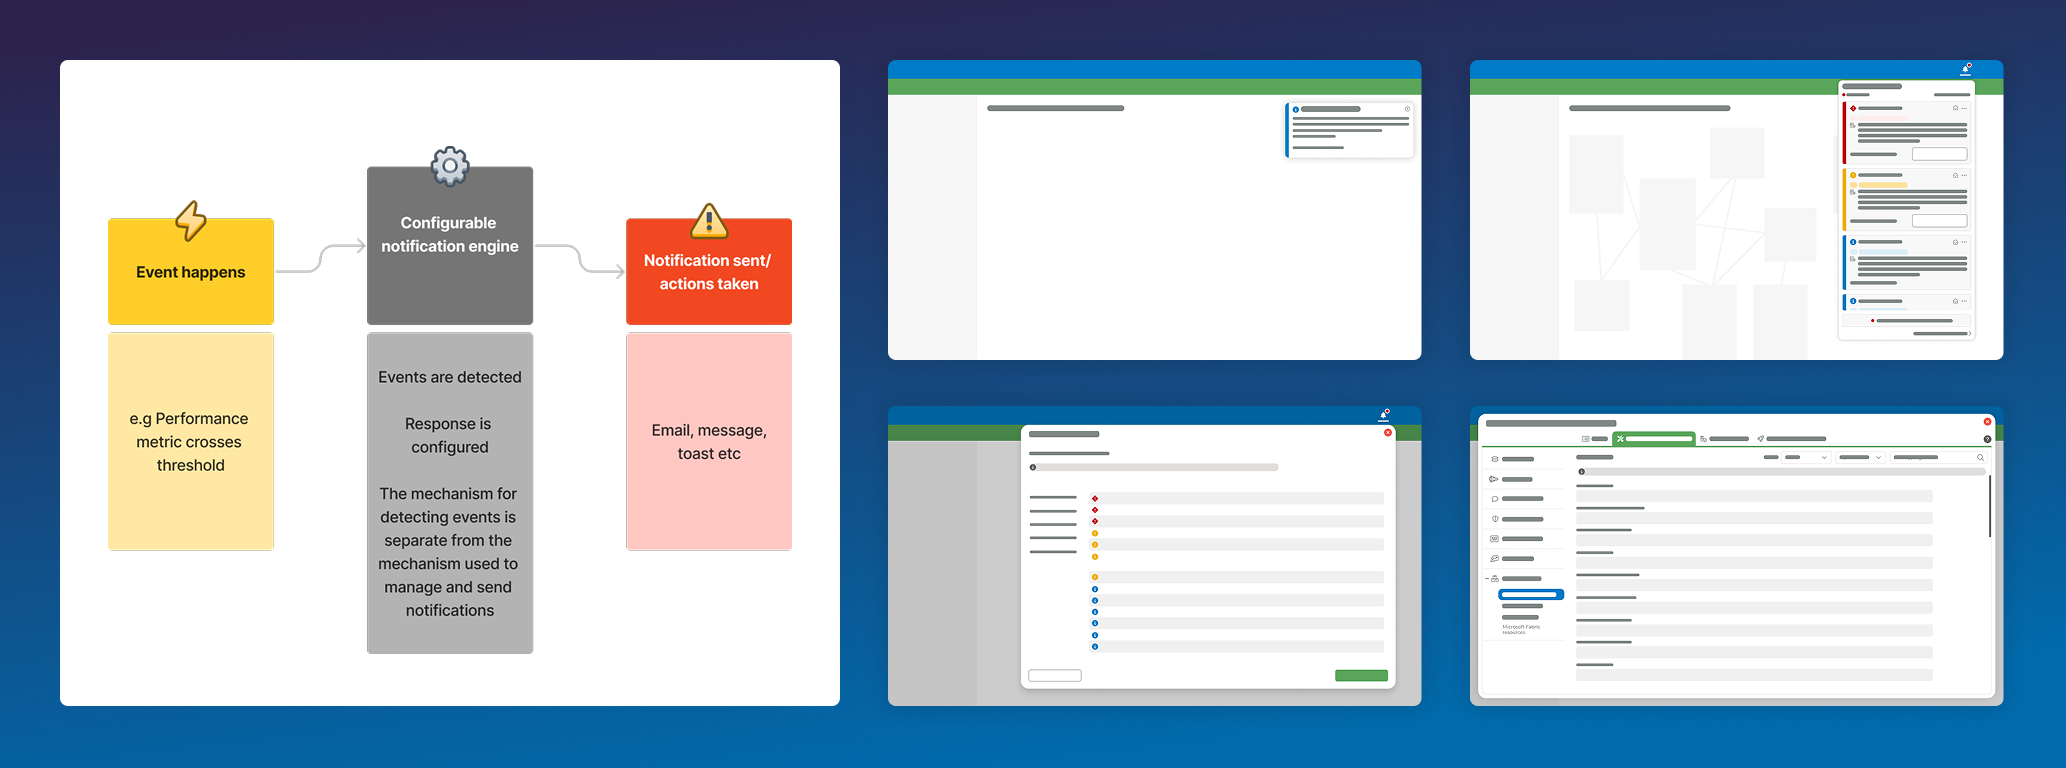
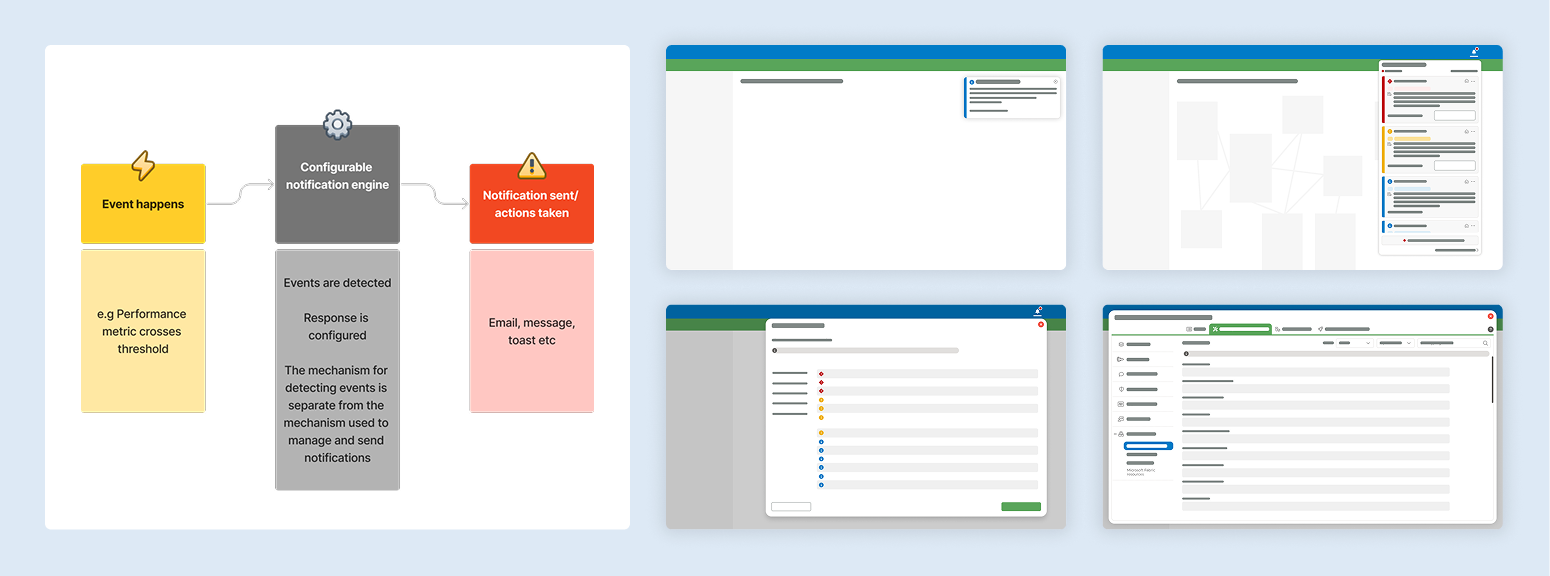
Alerts images updated

diff --git a/case_study_3_alerts.html b/case_study_3_alerts.html
@@ -161,8 +161,8 @@
                             </div>
                             <div class="cg-broad slide-up delay-300">
 
-                                <img class="cs-img round" src="img/alert_objective.svg" alt="Experience flow">
-
+                                <img class="cs-img round" src="img/alert_intro_1.png" alt="Notification centre mockup">
+                                <img class="cs-img round" src="img/alert_intro_2.png" alt="Notification centre mockup">
                                 <p class="cg-p-italics">We created this experience flow to map user needs alongside
                                     system processes and clarify where key interactions should occur.
                                 </p>
@@ -365,7 +365,7 @@
                                 </div>
 
                                 <!-- Step 2 -->
-                                <div class="rp-step ">
+                                <div class="rp-step-wide ">
                                     <div class="rp-icon">2</div>
                                     <div class="rp-content">
                                         <h5 class="cg-subheader-list">Planning for system-wide alerting</h5>
@@ -387,7 +387,7 @@
                                             </li>
                                         </ul>
                                     </div>
-                                    <div class="rp-image">
+                                    <div class="rp-image-wide">
                                         <img src="./img/alert_approach_2.svg" alt="System event and alerting mapping">
                                         <p class="cg-p-italics">I mapped and catalogued system events and looked at
                                             alert prioritisation scale would work.
@@ -395,7 +395,7 @@
                                     </div>
                                 </div>
                                 <!-- Step 4 -->
-                                <div class="rp-step ">
+                                <div class="rp-step-wide ">
                                     <div class="rp-icon">3</div>
                                     <div class="rp-content">
                                         <h5 class="cg-subheader-list">With the framework in place we focused on
@@ -419,10 +419,11 @@
 
                                         </ul>
                                     </div>
-                                    <div class="rp-image">
-                                        <img src="./img/alert_approach_e.png" alt="Wireframe showing an alert panel">
-                                        <p class="cg-p-italics">An early wireframe exploring the Alerts and
-                                            Notifications panel - one of the key user touchpoints. </p>
+                                    <div class="rp-image-wide">
+                                        <img src="./img/alert_objective.svg" alt="Wireframe showing an alert panel">
+                                        <p class="cg-p-italics">We created this experience flow to map user needs
+                                            alongside
+                                            system processes and clarify where key interactions should occur. </p>
                                     </div>
                                 </div>
 
@@ -864,8 +865,8 @@
                     <div class="case-inner  ">
                         <div class="cg-container animate-on-scroll">
                             <div class="cg-description">
-                                <p class="cs-tagline-chip white slide-up">Lessons</p>
-                                <h2 class="cg-title invert slide-up delay-100">Take aways from this project</h2>
+                                <p class="cs-tagline-chip blue slide-up">Lessons</p>
+                                <h2 class="cg-title slide-up delay-100">Take aways from this project</h2>
                             </div>
 
                             <div class="cg-cover slide-up delay-200">
@@ -873,12 +874,12 @@
                                     <div class="cg-text-block">
 
                                         <ul>
-                                            <li class="bullet-1 invert">
+                                            <li class="bullet-1">
                                                 <div class="cg-text-block">
-                                                    <h4 class="cg-subheader invert">Expertise helped—but it also got in
+                                                    <h4 class="cg-subheader">Expertise helped—but it also got in
                                                         the way:
                                                     </h4>
-                                                    <p class="cg-p invert">Pondo’s background in enterprise tools gave
+                                                    <p class="cg-p">Pondo’s background in enterprise tools gave
                                                         stakeholders confidence, which ironically made it harder to
                                                         argue for research. But experience can only take you so far.
                                                         Without real validation, you risk designing for assumptions
@@ -888,24 +889,24 @@
                                                     </p>
                                                 </div>
                                             </li>
-                                            <li class="bullet-1 invert">
+                                            <li class="bullet-1">
                                                 <div class="cg-text-block">
-                                                    <h4 class="cg-subheader invert">You can’t design what you don’t
+                                                    <h4 class="cg-subheader">You can’t design what you don’t
                                                         understand:
                                                     </h4>
-                                                    <p class="cg-p invert"> Alerting and observability are deeply
+                                                    <p class="cg-p"> Alerting and observability are deeply
                                                         technical. Embedding with engineers helped me understand backend
                                                         structures and constraints—which shaped the framework and made
                                                         sure it was actually feasible.
                                                     </p>
                                                 </div>
                                             </li>
-                                            <li class="bullet-1 invert">
+                                            <li class="bullet-1">
                                                 <div class="cg-text-block">
-                                                    <h4 class="cg-subheader invert">Mental models matter more than clean
+                                                    <h4 class="cg-subheader">Mental models matter more than clean
                                                         UI:
                                                     </h4>
-                                                    <p class="cg-p invert"> Naming friction—what counts as an "event"
+                                                    <p class="cg-p"> Naming friction—what counts as an "event"
                                                         vs. an "alert"—surfaced early. It was a reminder that a polished
                                                         interface means little if it doesn't match how users
                                                         conceptualise the system.
@@ -918,24 +919,24 @@
                                 <div class="cg-copy">
                                     <div class="cg-text-block">
                                         <ul>
-                                            <li class="bullet-1 invert">
+                                            <li class="bullet-1 ">
                                                 <div class="cg-text-block">
-                                                    <h4 class="cg-subheader invert">Information architecture means
+                                                    <h4 class="cg-subheader">Information architecture means
                                                         understanding system behaviour:
                                                     </h4>
-                                                    <p class="cg-p invert"> Before thinking about screens or UI, we had
+                                                    <p class="cg-p"> Before thinking about screens or UI, we had
                                                         to understand how the system worked, when events occurred, and
                                                         what users needed to know at each point. This shaped the logic
                                                         and placement of alerts throughout the product.
                                                     </p>
                                                 </div>
                                             </li>
-                                            <li class="bullet-1 invert">
+                                            <li class="bullet-1">
                                                 <div class="cg-text-block">
-                                                    <h4 class="cg-subheader invert">Close collaboration with engineers
+                                                    <h4 class="cg-subheader">Close collaboration with engineers
                                                         improved the outcome:
                                                     </h4>
-                                                    <p class="cg-p invert">Working closely with the engineering team
+                                                    <p class="cg-p">Working closely with the engineering team
                                                         made the alerts framework stronger. Their insight helped refine
                                                         the model, close knowledge gaps, and make design decisions more
                                                         grounded.

diff --git a/src/css/styles.css b/src/css/styles.css
@@ -2897,6 +2897,23 @@ margin-bottom: 24px;
   background: #262C59;
   color: #fff;
 }
+.rp-step-wide{
+  display: grid;
+   grid-template-columns: 48px 1fr;
+  gap: 24px;
+  align-items: start;
+  position: relative;
+}
+.rp-image-wide{
+   grid-column: 1 / -1;
+   padding-left: 32px;
+  text-align: left;
+}
+.rp-image-wide img {
+  width: 100%;
+  border-radius: 8px;
+  margin-bottom: 0.5rem;
+}
 
 /* Responsive adjustments */
 @media (max-width: 900px) {
@@ -3261,7 +3278,7 @@ margin-bottom: 24px;
   flex-direction: column;
   padding: 24px;
   gap: 16px;
-background-color:#262C59;
+background-color: var(--alert-chip);
 border-radius: 8px;
 
 }

diff --git a/dist/css/styles.css b/dist/css/styles.css
@@ -3543,6 +3543,26 @@ margin-bottom: 24px;
   color: #fff;
 }
 
+.rp-step-wide{
+  display: grid;
+   grid-template-columns: 48px 1fr;
+  gap: 24px;
+  align-items: start;
+  position: relative;
+}
+
+.rp-image-wide{
+   grid-column: 1 / -1;
+   padding-left: 32px;
+  text-align: left;
+}
+
+.rp-image-wide img {
+  width: 100%;
+  border-radius: 8px;
+  margin-bottom: 0.5rem;
+}
+
 /* Responsive adjustments */
 
 @media (max-width: 900px) {
@@ -3943,7 +3963,7 @@ margin-bottom: 24px;
   flex-direction: column;
   padding: 24px;
   gap: 16px;
-background-color:#262C59;
+background-color: var(--alert-chip);
 border-radius: 8px;
 
 }
